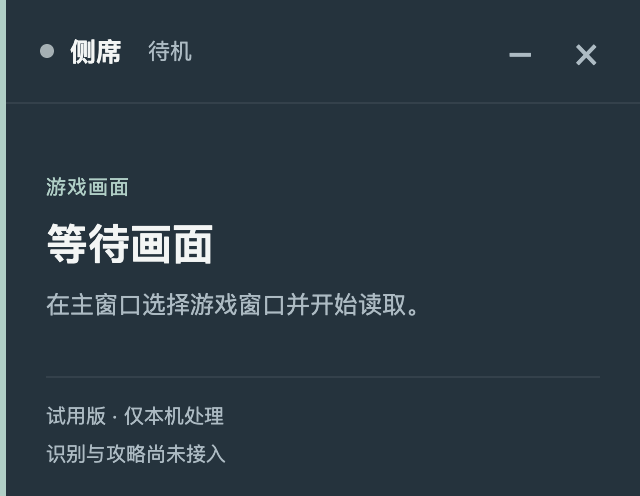
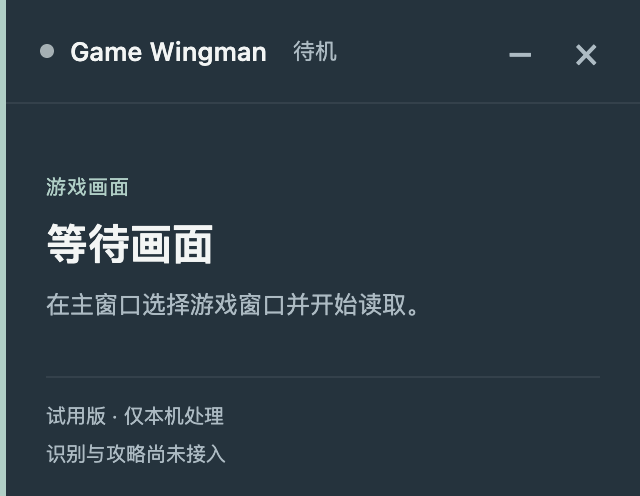
Unify Game Wingman branding and local folder instructions

Changed region(s): [[0.0938, 0.0605, 0.5312, 0.1512]]

diff --git a/src/renderer/overlay.html b/src/renderer/overlay.html
@@ -1,3 +1,3 @@
 <!doctype html>
 <html lang="zh-CN"><head><meta charset="UTF-8"><meta name="viewport" content="width=device-width, initial-scale=1"><meta http-equiv="Content-Security-Policy" content="default-src 'none'; script-src 'self'; style-src 'self'; img-src 'self' data:; connect-src 'none'; base-uri 'none'; form-action 'none'"><title>Game Wingman · 浮窗</title><link rel="stylesheet" href="styles.css"></head>
-<body class="overlay-app"><header class="overlay-header"><span class="overlay-brand"><i id="overlay-dot" class="state-dot"></i>侧席 <span id="overlay-mode">待机</span></span><div class="overlay-actions"><button id="collapse-button" class="icon-button" title="收起浮窗" aria-label="收起浮窗" aria-expanded="true">−</button><button id="hide-button" class="icon-button" title="隐藏浮窗" aria-label="隐藏浮窗">×</button></div></header><main id="overlay-content"><div class="overlay-message"><p id="entry-kind" class="overlay-eyebrow">游戏画面</p><h1 id="overlay-title">等待画面</h1><p id="overlay-description">在主窗口选择游戏窗口并开始读取。</p></div><footer class="overlay-footer"><span id="overlay-source">识别与攻略尚未接入</span><span id="overlay-time"></span></footer></main><script type="module" src="overlay.js"></script></body></html>
+<body class="overlay-app"><header class="overlay-header"><span class="overlay-brand"><i id="overlay-dot" class="state-dot"></i>Game Wingman <span id="overlay-mode">待机</span></span><div class="overlay-actions"><button id="collapse-button" class="icon-button" title="收起浮窗" aria-label="收起浮窗" aria-expanded="true">−</button><button id="hide-button" class="icon-button" title="隐藏浮窗" aria-label="隐藏浮窗">×</button></div></header><main id="overlay-content"><div class="overlay-message"><p id="entry-kind" class="overlay-eyebrow">游戏画面</p><h1 id="overlay-title">等待画面</h1><p id="overlay-description">在主窗口选择游戏窗口并开始读取。</p></div><footer class="overlay-footer"><span id="overlay-source">识别与攻略尚未接入</span><span id="overlay-time"></span></footer></main><script type="module" src="overlay.js"></script></body></html>

diff --git a/src/renderer/index.html b/src/renderer/index.html
@@ -6,7 +6,7 @@
   <title>Game Wingman</title><link rel="stylesheet" href="styles.css">
 </head>
 <body class="app">
-  <header class="titlebar"><span class="wordmark"><span class="brand-mark" aria-hidden="true"></span>侧席 <span class="brand-en">Game Wingman</span></span><span class="region">TFT · 美服</span><button id="settings-button" class="text-button">资料与设置</button></header>
+  <header class="titlebar"><span class="wordmark"><span class="brand-mark" aria-hidden="true"></span>Game Wingman</span><span class="region">TFT · 美服</span><button id="settings-button" class="text-button">资料与设置</button></header>
   <main class="workspace">
     <section class="controls" aria-label="画面读取控制">
       <div class="source-label"><span id="state-dot" class="state-dot"></span><div><h1 id="source-name">选择一个游戏窗口</h1><p id="source-detail">开始前不会读取屏幕</p></div></div>

diff --git a/CHANGELOG.md b/CHANGELOG.md
@@ -2,7 +2,7 @@
 
 ## 0.1.0 — 2026-09-24
 
-Initial public source preview, published as **Game Wingman** (earlier working name: Game Win Man).
+Initial public source preview, published as **Game Wingman**.
 
 - Electron desktop control window and independent compact overlay.
 - Explicit window selection, low-frequency preview, pause/resume and local image import.
@@ -13,3 +13,7 @@ Initial public source preview, published as **Game Wingman** (earlier working na
 - English and Chinese READMEs, privacy/security notes, data-source research and Windows development handoff.
 
 Not yet implemented: desktop AI settings, screenshot-to-model input, OCR, reviewed tactical-guide retrieval and dynamic recommendations. Windows gameplay and live provider calls are not validated by this release. No installer or signed binary release is published with this source checkpoint.
+
+### Naming consistency
+
+The application wordmark, overlay and packages use Game Wingman. Setup instructions clone into a local `game wingman` directory; the GitHub repository and npm identifier remain `game-wingman`.

diff --git a/docs/windows-handoff.md b/docs/windows-handoff.md
@@ -1,14 +1,14 @@
 # Windows 接续指南
 
-公开交接点：2026-09-24，版本 0.1.0，仓库 https://github.com/maxuod/game-wingman 。产品名称已统一为 **Game Wingman**，“侧席”是当前中文 UI 名称。此时按要求暂停进一步功能开发，下一次以 Windows 作为 TFT 游戏实测环境；保留 macOS 桌面架构。
+公开交接点：2026-09-24，版本 0.1.0，仓库 https://github.com/maxuod/game-wingman 。产品名称已统一为 **Game Wingman**，主窗口、浮窗和软件包统一显示同一名称。此时按要求暂停进一步功能开发，下一次以 Windows 作为 TFT 游戏实测环境；保留 macOS 桌面架构。
 
 ## 在新电脑启动
 
 安装 Git 与 Node.js 22.12–22.x；仓库 `.nvmrc` 为 22.23.1。在 PowerShell 中：
 
 ```powershell
-git clone https://github.com/maxuod/game-wingman.git
-cd game-wingman
+git clone https://github.com/maxuod/game-wingman.git "game wingman"
+cd "game wingman"
 npm ci
 npm run check
 npm test

diff --git a/docs/design-direction.md b/docs/design-direction.md
@@ -1,6 +1,6 @@
-# 原创 UI/UX 方向：侧席
+# Game Wingman UI/UX 设计
 
-日期：2026-09-24。用户要求：数据库方案可参考 ARAM-tool，UI/UX 独立设计。“侧席”是设计方向名称，产品正式使用 Game Wingman。
+日期：2026-09-24。用户要求：数据库方案可参考 ARAM-tool，UI/UX 独立设计。产品、主窗口和浮窗统一使用 Game Wingman；“侧席”仅为早期草案的设计方向名称。
 
 ## 目标与设计取舍
 

diff --git a/README.md b/README.md
@@ -39,8 +39,8 @@ These are application screenshots. They show the current capture/lookup shell, n
 Use Git and **Node.js 22.12–22.x**; `.nvmrc` pins the locally tested version. No API key is needed to run the desktop shell.
 
 ```sh
-git clone https://github.com/maxuod/game-wingman.git
-cd game-wingman
+git clone https://github.com/maxuod/game-wingman.git "game wingman"
+cd "game wingman"
 npm ci
 npm start
 ```
